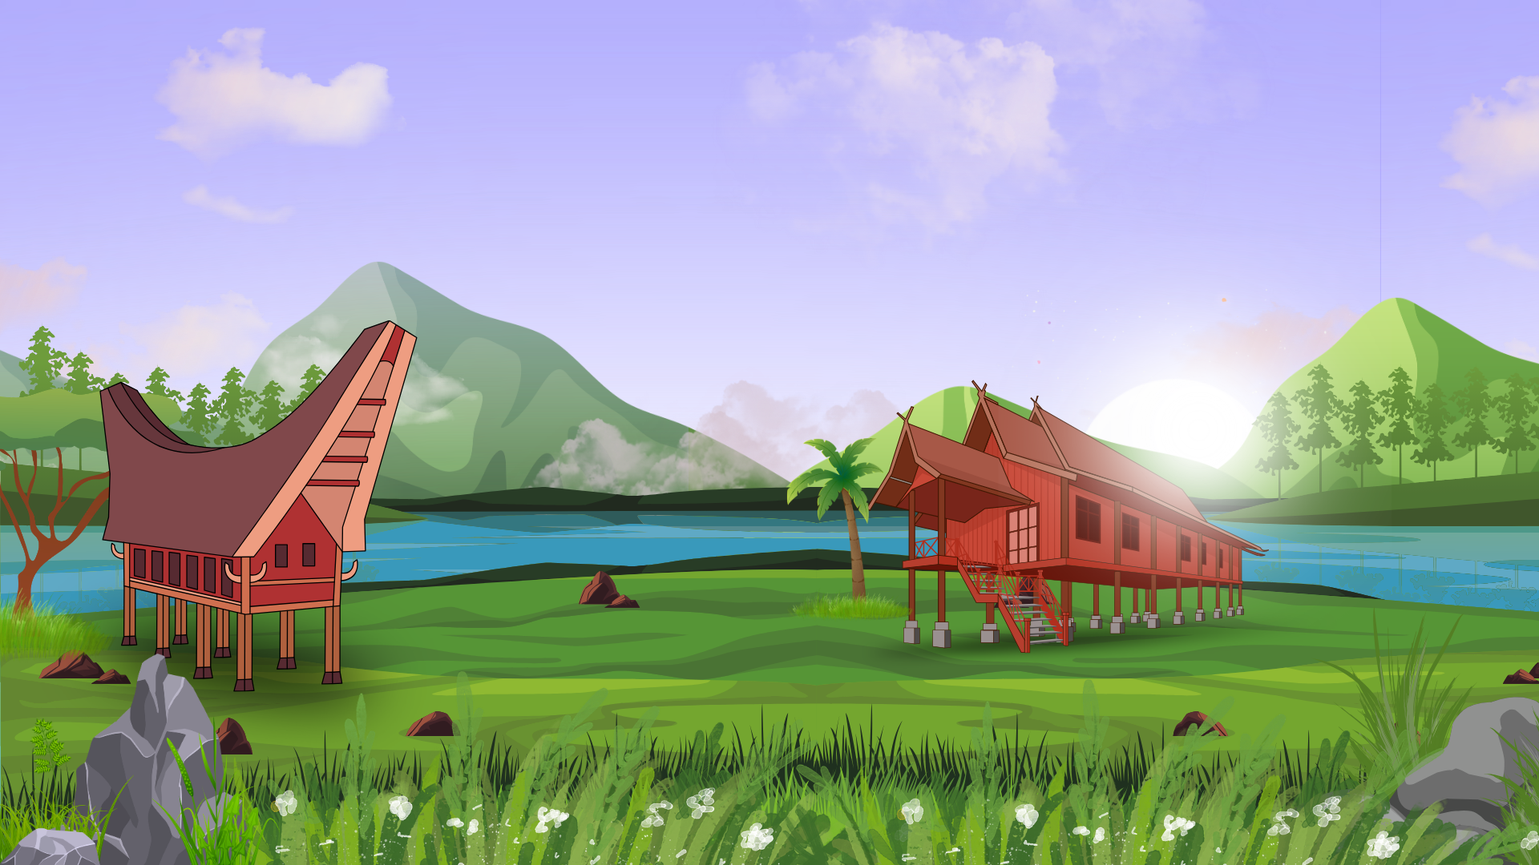
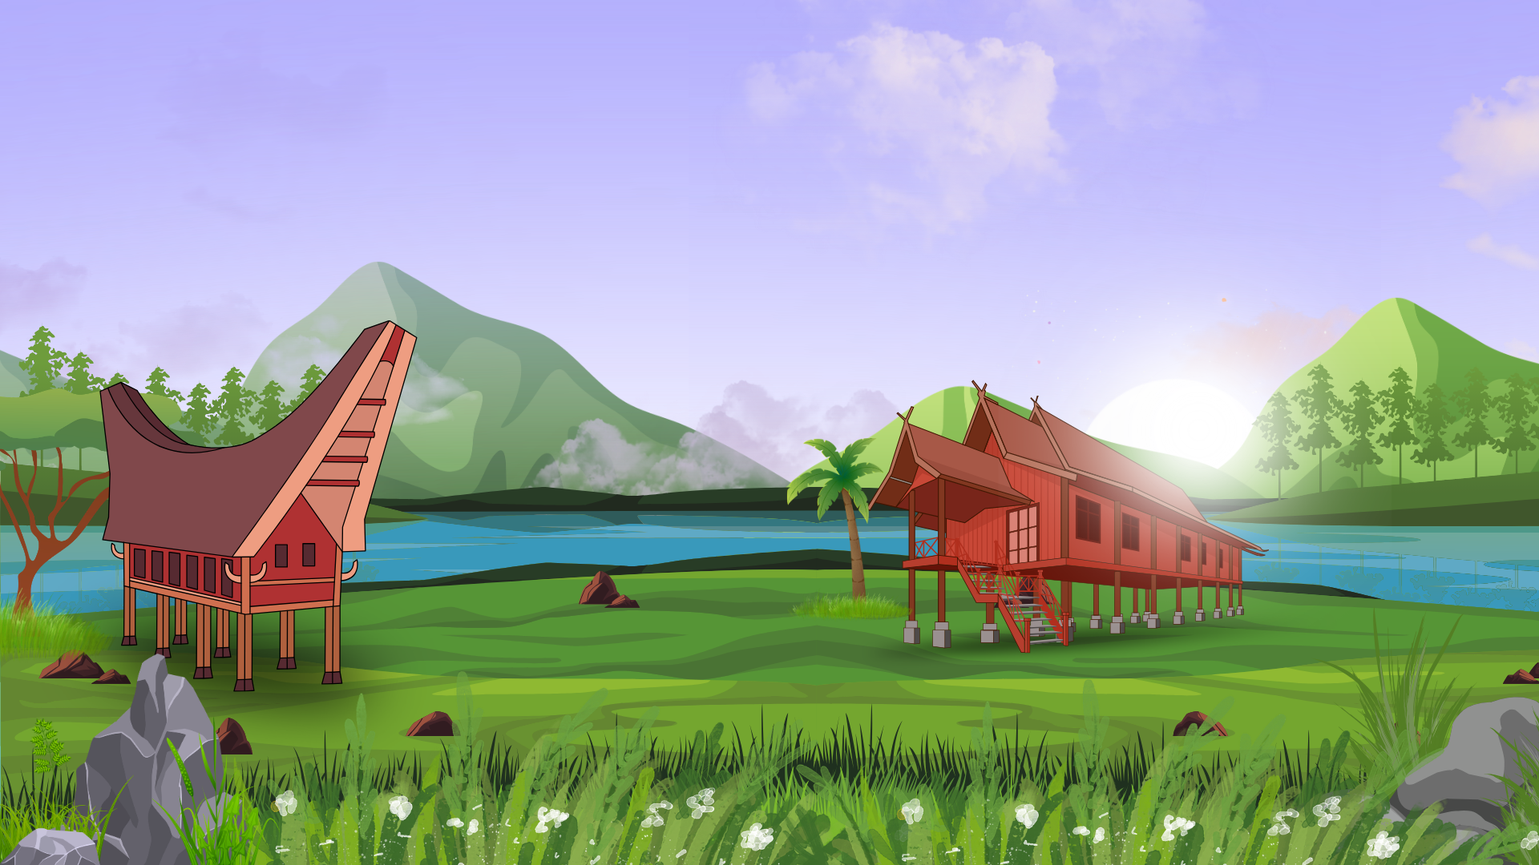
edit navbar, button search, dll

diff --git a/Frontend/baktinusantara-frontend/components/layout/Navbar.tsx b/Frontend/baktinusantara-frontend/components/layout/Navbar.tsx
@@ -64,38 +64,35 @@ export const Navbar: React.FC = () => {
 
   return (
     <header
-      className={`sticky top-0 z-50 w-full border-b transition-all duration-200 ${
+      className={`sticky top-0 z-50 w-full border-b transition-colors duration-200 ${
         isScrolled
           ? 'bg-white/95 dark:bg-navy-950/95 backdrop-blur-md border-slate-200/80 dark:border-navy-800 shadow-sm'
           : 'bg-transparent dark:bg-transparent border-transparent backdrop-blur-none shadow-none'
       }`}
     >
-      <div className="max-w-[1440px] mx-auto px-4 sm:px-8 lg:px-12">
-        <div className="flex items-center justify-between h-20">
-          {/* Logo Brand (Farmvest / IKN Style) */}
+      <div className="max-w-[1500px] mx-auto px-4 sm:px-8 lg:px-12">
+        <div className="flex items-center h-20 gap-3 sm:gap-4 lg:gap-6">
+          {/* Logo Brand (Farmvest / IKN Style) - fixed, never shrinks */}
           <Link href="/" className="flex items-center gap-3.5 shrink-0 group">
-            <div className="w-11 h-11 rounded-2xl bg-primary flex items-center justify-center text-white shadow-sm transition-transform duration-200 group-hover:scale-105">
+            <div className="w-11 h-11 rounded-2xl bg-primary flex items-center justify-center text-white shadow-sm transition-transform duration-200 group-hover:scale-105 shrink-0">
               <Sprout className="w-6 h-6 text-white" />
             </div>
-            <div className="flex flex-col">
-              <span className="font-epilogue font-extrabold text-navy-950 dark:text-white text-xl leading-none tracking-tight">
+            <div className="flex flex-col min-w-0">
+              <span className="font-epilogue font-extrabold text-navy-950 dark:text-white text-xl leading-none tracking-tight whitespace-nowrap">
                 {tCommon('appName')}
               </span>
-              {/* <span className="text-xs text-slate-500 dark:text-slate-400 font-medium font-jakarta mt-1 tracking-wide">
-                {tCommon('appTagline')}
-              </span> */}
             </div>
           </Link>
 
-          {/* Desktop Center Navigation Links - Spacious & Clean */}
-          <nav className="hidden lg:flex items-center gap-8 xl:gap-10">
+          {/* Desktop Center Navigation Links - flex-1 centered, stable width */}
+          <nav className="hidden lg:flex flex-1 items-center justify-center gap-5 xl:gap-7 min-w-0">
             {navLinks.map((link) => {
               const isActive = pathname === link.href || (link.href !== '/' && pathname.startsWith(link.href));
               return (
                 <Link
                   key={link.href}
                   href={link.href}
-                  className={`text-[14px] font-semibold font-jakarta whitespace-nowrap transition-colors duration-150 relative py-2 ${
+                  className={`text-[13px] xl:text-[14px] font-semibold font-jakarta whitespace-nowrap shrink-0 transition-colors duration-150 relative py-2 ${
                     isActive
                       ? 'text-primary dark:text-primary-400'
                       : 'text-slate-600 dark:text-slate-300 hover:text-navy-950 dark:hover:text-white'
@@ -110,10 +107,10 @@ export const Navbar: React.FC = () => {
             })}
           </nav>
 
-          {/* Right Action & Controls (Farmvest Style + Dark Mode + Language Switcher + Notification Bell) */}
-          <div className="hidden sm:flex items-center gap-2.5 lg:gap-3 shrink-0">
-            {/* Language Switcher */}
-            <LanguageSwitcher />
+          {/* Right Action & Controls - shrink-0, fixed layout to prevent shift on language change */}
+          <div className="hidden sm:flex items-center gap-2 lg:gap-2.5 shrink-0 ml-auto lg:ml-0">
+            {/* Language Switcher - fixed min-width to avoid header jump IDN/ENG */}
+            <LanguageSwitcher className="min-w-[78px] justify-center" />
 
             {/* Dark Mode Toggle */}
             <ThemeToggle />
@@ -124,14 +121,14 @@ export const Navbar: React.FC = () => {
             {/* Quick Demo Switcher Dropdown */}
             <RoleSwitcher />
 
-            <div className="h-6 w-px bg-slate-200 dark:bg-navy-800 mx-0.5" />
+            <div className="h-6 w-px bg-slate-200 dark:bg-navy-800 mx-0.5 shrink-0" />
 
             {isAuthenticated ? (
-              <div className="flex items-center gap-2">
-                <Link href={getDashboardLink()}>
-                  <Button size="md" variant="primary" className="gap-2 font-bold px-3.5 py-2 rounded-xl shadow-sm hover:shadow-md text-xs">
-                    <LayoutDashboard className="w-3.5 h-3.5" />
-                    <span>Portal {user?.name ? user.name.split(' ')[0] : 'Dashboard'}</span>
+              <div className="flex items-center gap-2 shrink-0">
+                <Link href={getDashboardLink()} className="shrink-0">
+                  <Button size="md" variant="primary" className="gap-2 font-bold px-3.5 py-2 rounded-xl shadow-sm hover:shadow-md text-xs whitespace-nowrap min-w-[120px] justify-center">
+                    <LayoutDashboard className="w-3.5 h-3.5 shrink-0" />
+                    <span className="truncate max-w-[110px]">Portal {user?.name ? user.name.split(' ')[0] : 'Dashboard'}</span>
                   </Button>
                 </Link>
                 <button
@@ -139,21 +136,21 @@ export const Navbar: React.FC = () => {
                     await logout();
                     toast.success('Sesi berhasil keluar');
                   }}
-                  className="p-2 rounded-xl text-slate-500 hover:text-rose-600 hover:bg-rose-50 dark:hover:bg-rose-950/30 border border-slate-200 dark:border-navy-700 transition-colors"
+                  className="p-2 rounded-xl text-slate-500 hover:text-rose-600 hover:bg-rose-50 dark:hover:bg-rose-950/30 border border-slate-200 dark:border-navy-700 transition-colors shrink-0"
                   title="Keluar Sesi"
                 >
                   <LogOut className="w-4 h-4" />
                 </button>
               </div>
             ) : (
-              <div className="flex items-center gap-2.5">
-                <Link href="/login">
-                  <Button size="sm" variant="ghost" className="text-xs font-bold text-navy-950 dark:text-slate-200 px-3.5 py-2 hover:bg-slate-100 dark:hover:bg-navy-900">
+              <div className="flex items-center gap-2 shrink-0">
+                <Link href="/login" className="shrink-0">
+                  <Button size="sm" variant="ghost" className="text-xs font-bold text-navy-950 dark:text-slate-200 px-3.5 py-2 hover:bg-slate-100 dark:hover:bg-navy-900 whitespace-nowrap min-w-[96px] justify-center">
                     {t('login')}
                   </Button>
                 </Link>
-                <Link href="/register">
-                  <Button size="sm" variant="primary" className="text-xs font-bold px-4 py-2 rounded-xl shadow-sm">
+                <Link href="/register" className="shrink-0">
+                  <Button size="sm" variant="primary" className="text-xs font-bold px-4 py-2 rounded-xl shadow-sm whitespace-nowrap min-w-[108px] justify-center">
                     {t('register')}
                   </Button>
                 </Link>
@@ -161,12 +158,16 @@ export const Navbar: React.FC = () => {
             )}
           </div>
 
-          {/* Mobile Menu Toggle Button & Theme Toggle on mobile */}
-          <div className="flex lg:hidden items-center gap-2">
+          {/* Mobile Menu Toggle Button & controls on mobile/tablet */}
+          <div className="flex lg:hidden items-center gap-2 shrink-0 ml-auto sm:ml-0">
+            {/* Language switcher visible on very small screens where right group is hidden */}
+            <div className="sm:hidden">
+              <LanguageSwitcher />
+            </div>
             <ThemeToggle />
             <button
               onClick={() => setMobileMenuOpen(!mobileMenuOpen)}
-              className="p-2.5 rounded-xl text-navy-900 dark:text-slate-200 hover:bg-slate-100 dark:hover:bg-navy-900 border border-slate-200 dark:border-navy-800 transition-colors"
+              className="p-2.5 rounded-xl text-navy-900 dark:text-slate-200 hover:bg-slate-100 dark:hover:bg-navy-900 border border-slate-200 dark:border-navy-800 transition-colors shrink-0"
               aria-label="Buka menu navigasi"
             >
               {mobileMenuOpen ? <X className="w-6 h-6" /> : <Menu className="w-6 h-6" />}
@@ -178,28 +179,38 @@ export const Navbar: React.FC = () => {
       {/* Mobile Menu Dropdown */}
       {mobileMenuOpen && (
         <div className="lg:hidden border-t border-slate-200 dark:border-navy-800 bg-white dark:bg-navy-950 px-6 pt-4 pb-6 space-y-4 font-jakarta shadow-xl">
-          <div className="flex items-center justify-between pb-3 border-b border-slate-100 dark:border-navy-800">
-            <span className="text-xs font-bold text-slate-500 dark:text-slate-400 uppercase tracking-wider">Peran Demo</span>
-            <RoleSwitcher />
+          <div className="space-y-3 pb-3 border-b border-slate-100 dark:border-navy-800">
+            <div className="flex items-center justify-between">
+              <span className="text-xs font-bold text-slate-500 dark:text-slate-400 uppercase tracking-wider">{t('switchRole')}</span>
+              <RoleSwitcher />
+            </div>
+            {/* Language & Theme row in mobile - hidden on sm because header already shows it */}
+            <div className="flex items-center justify-between">
+              <span className="text-xs font-bold text-slate-500 dark:text-slate-400 uppercase tracking-wider">Bahasa / Language</span>
+              <div className="flex items-center gap-2">
+                <LanguageSwitcher />
+                <ThemeToggle />
+              </div>
+            </div>
           </div>
 
           <div className="space-y-1">
             {navLinks.map((link) => {
               const Icon = link.icon;
-              const isActive = pathname === link.href;
+              const isActive = pathname === link.href || (link.href !== '/' && pathname.startsWith(link.href));
               return (
                 <Link
                   key={link.href}
                   href={link.href}
                   onClick={() => setMobileMenuOpen(false)}
-                  className={`flex items-center gap-3 px-3.5 py-2.5 text-sm font-semibold rounded-xl transition-colors ${
+                  className={`flex items-center gap-3 px-3.5 py-2.5 text-sm font-semibold rounded-xl transition-colors whitespace-nowrap ${
                     isActive
                       ? 'bg-primary/10 dark:bg-primary/20 text-primary dark:text-primary-300 font-bold'
                       : 'text-navy-950 dark:text-slate-200 hover:bg-slate-50 dark:hover:bg-navy-900'
                   }`}
                 >
-                  <Icon className="w-4 h-4 text-slate-400" />
-                  <span>{link.label}</span>
+                  <Icon className="w-4 h-4 text-slate-400 shrink-0" />
+                  <span className="truncate">{link.label}</span>
                 </Link>
               );
             })}
@@ -210,8 +221,8 @@ export const Navbar: React.FC = () => {
               <div className="space-y-2">
                 <Link href={getDashboardLink()} onClick={() => setMobileMenuOpen(false)}>
                   <Button className="w-full justify-center gap-2" variant="primary">
-                    <LayoutDashboard className="w-4 h-4" />
-                    Buka Portal ({user?.name})
+                    <LayoutDashboard className="w-4 h-4 shrink-0" />
+                    <span className="truncate">Portal {user?.name ? user.name.split(' ')[0] : 'Dashboard'}</span>
                   </Button>
                 </Link>
                 <Button
@@ -223,20 +234,20 @@ export const Navbar: React.FC = () => {
                   variant="outline"
                   className="w-full justify-center gap-2 text-rose-600 border-rose-200 dark:border-rose-900 dark:text-rose-400"
                 >
-                  <LogOut className="w-4 h-4" />
-                  Keluar Akun
+                  <LogOut className="w-4 h-4 shrink-0" />
+                  {t('logout')}
                 </Button>
               </div>
             ) : (
               <div className="flex gap-2.5">
-                <Link href="/login" className="flex-1" onClick={() => setMobileMenuOpen(false)}>
-                  <Button variant="outline" className="w-full justify-center text-xs font-bold dark:border-navy-700 dark:text-slate-200">
-                    Masuk
+                <Link href="/login" className="flex-1 min-w-0" onClick={() => setMobileMenuOpen(false)}>
+                  <Button variant="outline" className="w-full justify-center text-xs font-bold dark:border-navy-700 dark:text-slate-200 whitespace-nowrap">
+                    {t('login')}
                   </Button>
                 </Link>
-                <Link href="/register" className="flex-1" onClick={() => setMobileMenuOpen(false)}>
-                  <Button variant="primary" className="w-full justify-center text-xs font-bold">
-                    Daftar KKN
+                <Link href="/register" className="flex-1 min-w-0" onClick={() => setMobileMenuOpen(false)}>
+                  <Button variant="primary" className="w-full justify-center text-xs font-bold whitespace-nowrap">
+                    {t('register')}
                   </Button>
                 </Link>
               </div>

diff --git a/Frontend/baktinusantara-frontend/app/page.tsx b/Frontend/baktinusantara-frontend/app/page.tsx
@@ -89,18 +89,16 @@ export default function HomePage() {
         {/* Subtle Ambient Radial Glow (Clean, Non-Intrusive) */}
         <div className="absolute top-1/2 left-1/2 -translate-x-1/2 -translate-y-1/2 w-[600px] sm:w-[850px] h-[400px] sm:h-[500px] bg-gradient-to-tr from-primary/8 via-emerald-500/6 to-sky-400/8 blur-[120px] pointer-events-none rounded-full" />
 
-        <div className="relative max-w-5xl w-full mx-auto text-center space-y-6 sm:space-y-7 my-auto">
+        <div className="relative w-full max-w-5xl xl:max-w-[1100px] 2xl:max-w-[1200px] mx-auto text-center space-y-6 sm:space-y-7 my-auto px-4 sm:px-0">
           {/* Top Pill Announcement */}
-          <div className="inline-flex items-center gap-2 px-4 py-1.5 rounded-full bg-white dark:bg-navy-900 border border-slate-200 dark:border-navy-700 shadow-xs text-xs font-semibold text-navy-900 dark:text-slate-200 font-jakarta">
-            <span className="flex h-2 w-2 rounded-full bg-emerald-500 animate-pulse" />
-            <span>{tHero('announcement')}</span>
-          </div>
 
           {/* Big Authoritative Headline with Epilogue Font */}
           <h1 className="text-4xl sm:text-5xl lg:text-6xl font-extrabold text-navy-950 dark:text-white font-epilogue tracking-tight leading-[1.12]">
             {tHero('titleLine1')} <br />
-            <span className="text-primary-600 dark:text-primary-400">{tHero('titleAction')}</span> {tHero('titleWith')}{' '}
-            <span className="text-secondary-600 dark:text-secondary-400">{tHero('titleImpact')}</span>
+            {/* <span className="text-primary-600 dark:text-primary-400">{tHero('titleAction')}</span> {tHero('titleWith')}{' '} */}
+            <span className="text-secondary-600 dark:text-secondary-400">{tHero('titleAction')}</span> {tHero('titleWith')}{' '}
+            <span className="text-primary-600 dark:text-primary-400">{tHero('titleImpact')}</span>
+            {/* <span className="text-secondary-600 dark:text-secondary-400">{tHero('titleImpact')}</span> */}
           </h1>
 
           <p className="max-w-2xl mx-auto text-sm sm:text-base text-slate-600 dark:text-slate-300 font-jakarta leading-relaxed">
@@ -184,7 +182,7 @@ export default function HomePage() {
                     <Button
                       size="lg"
                       variant="primary"
-                      className="w-full h-12 rounded-xl text-xs font-bold gap-2 shadow-sm"
+                      className="w-full h-12 rounded-xl text-xs font-bold gap-2 shadow-sm whitespace-nowrap"
                     >
                       <Search className="w-4 h-4" />
                       <span>{tHero('inputs.searchBtn')}</span>
@@ -211,7 +209,7 @@ export default function HomePage() {
         {/* ========================================================================= */}
         {/* 2. REAL INDONESIA PHOTOGRAPHIC SHOWCASE */}
         {/* ========================================================================= */}
-        <section className="relative pt-24 sm:pt-32 pb-20 sm:pb-28 px-4 sm:px-6 lg:px-8 max-w-7xl mx-auto space-y-12">
+        <section className="relative pt-24 sm:pt-32 pb-20 sm:pb-28 px-4 sm:px-6 lg:px-8 xl:px-8 2xl:px-12 w-full max-w-7xl xl:max-w-[1280px] 2xl:max-w-[1440px] mx-auto space-y-8 sm:space-y-10 lg:space-y-12">
         <div className="flex flex-col md:flex-row md:items-end justify-between gap-4">
           <div className="space-y-1 max-w-2xl">
             <span className="text-xs font-bold text-emerald-700 dark:text-emerald-400 uppercase tracking-wider">
@@ -233,8 +231,8 @@ export default function HomePage() {
           </Link>
         </div>
 
-        {/* Real Authentic Photo Grid */}
-        <div className="grid grid-cols-1 md:grid-cols-4 gap-5">
+        {/* Real Authentic Photo Grid - fluid di semua breakpoint tanpa sisa ruang */}
+        <div className="grid grid-cols-1 sm:grid-cols-2 lg:grid-cols-4 gap-4 sm:gap-5 lg:gap-6">
           {[
             {
               title: 'Modernisasi Irigasi Pertanian',
@@ -265,11 +263,14 @@ export default function HomePage() {
               key={idx}
               className="group relative rounded-2xl overflow-hidden border border-slate-200 dark:border-navy-800 shadow-card hover:shadow-card-hover transition-all duration-200 bg-white dark:bg-navy-900 flex flex-col"
             >
-              <div className="h-48 overflow-hidden relative">
+              <div className="relative w-full aspect-[16/10] sm:aspect-[4/3] lg:aspect-[4/3] xl:aspect-[16/11] overflow-hidden">
                 <img
                   src={item.img}
                   alt={item.title}
-                  className="w-full h-full object-cover group-hover:scale-105 transition-transform duration-300"
+                  loading="lazy"
+                  decoding="async"
+                  sizes="(max-width: 640px) 100vw, (max-width: 1024px) 50vw, 25vw"
+                  className="absolute inset-0 w-full h-full object-cover object-center group-hover:scale-105 transition-transform duration-300 max-w-full"
                 />
                 <span className="absolute top-3 left-3 bg-navy-950/80 backdrop-blur-md text-white text-[10px] font-bold px-2.5 py-1 rounded-md">
                   {item.sector}
@@ -320,7 +321,7 @@ export default function HomePage() {
           ].map((m, i) => {
             const Icon = m.icon;
             return (
-              <div key={i} className="p-5 rounded-2xl bg-slate-50 dark:bg-navy-900 border border-slate-200/80 dark:border-navy-800 space-y-2">
+              <div key={i} className="p-5 rounded-2xl bg-white dark:bg-navy-900 border border-slate-200/80 dark:border-navy-800 space-y-2">
                 <div className="flex items-center justify-between">
                   <span className="text-2xl sm:text-3xl font-extrabold text-navy-950 dark:text-white font-epilogue">
                     {m.num}
@@ -337,8 +338,8 @@ export default function HomePage() {
       {/* ========================================================================= */}
       {/* 3. JELAJAHI SEBARAN WILAYAH NUSANTARA (Gaya Trippin': Circular Badges) */}
       {/* ========================================================================= */}
-      <section className="relative py-14 bg-transparent dark:bg-transparent  border-slate-200/50 dark:border-navy-800/50 px-4 sm:px-6 lg:px-8 transition-colors duration-200">
-        <div className="max-w-7xl mx-auto space-y-8 text-center">
+      <section className="relative py-10 sm:py-12 lg:py-14 bg-transparent dark:bg-transparent border-slate-200/50 dark:border-navy-800/50 px-4 sm:px-6 lg:px-8 xl:px-8 2xl:px-12 transition-colors duration-200">
+        <div className="w-full max-w-7xl xl:max-w-[1280px] 2xl:max-w-[1440px] mx-auto space-y-6 sm:space-y-8 text-center">
           <div className="space-y-1 max-w-xl mx-auto">
             <span className="text-xs font-bold text-primary-700 dark:text-primary-400 uppercase tracking-wider">
               Sebaran Geografis KKN
@@ -348,15 +349,15 @@ export default function HomePage() {
             </h2>
           </div>
 
-          <div className="grid grid-cols-2 sm:grid-cols-3 lg:grid-cols-6 gap-4">
+          <div className="grid grid-cols-2 sm:grid-cols-3 lg:grid-cols-6 gap-3 sm:gap-4 lg:gap-5 xl:gap-6">
             {exploreRegions.map((reg, idx) => (
               <Link
                 key={idx}
                 href={`/search?q=${encodeURIComponent(reg.name)}`}
                 className="group flex flex-col items-center space-y-2.5 p-3 rounded-2xl hover:bg-white dark:hover:bg-navy-900 transition-all duration-150 border border-transparent hover:border-slate-200 dark:hover:border-navy-800 hover:shadow-card"
               >
-                <div className="w-20 h-20 sm:w-24 sm:h-24 rounded-full overflow-hidden border-2 border-white dark:border-navy-700 shadow-card group-hover:scale-105 transition-transform duration-200">
-                  <img src={reg.img} alt={reg.name} className="w-full h-full object-cover" />
+                <div className="w-16 h-16 xs:w-20 xs:h-20 sm:w-24 sm:h-24 lg:w-28 lg:h-28 xl:w-32 xl:h-32 rounded-full overflow-hidden border-2 border-white dark:border-navy-700 shadow-card group-hover:scale-105 transition-transform duration-200 shrink-0 aspect-square">
+                  <img src={reg.img} alt={reg.name} loading="lazy" decoding="async" sizes="(max-width: 640px) 50vw, (max-width: 1024px) 33vw, 16vw" className="w-full h-full object-cover object-center max-w-full" />
                 </div>
                 <div>
                   <p className="text-xs font-bold text-navy-950 dark:text-slate-200 group-hover:text-primary-600 dark:group-hover:text-primary-400 transition-colors">
@@ -439,7 +440,7 @@ export default function HomePage() {
         {/* ========================================================================= */}
         {/* 5. POS KEBUTUHAN PILIHAN SIAP DILAMAR */}
         {/* ========================================================================= */}
-        <section className="relative py-16 sm:py-20 px-4 sm:px-6 lg:px-8 max-w-7xl mx-auto space-y-8">
+        <section className="relative py-12 sm:py-16 lg:py-20 px-4 sm:px-6 lg:px-8 xl:px-8 2xl:px-12 w-full max-w-7xl xl:max-w-[1280px] 2xl:max-w-[1440px] mx-auto space-y-6 sm:space-y-8">
         <div className="flex flex-col md:flex-row md:items-end justify-between gap-4">
           <div className="space-y-1">
             <span className="text-xs font-bold text-primary-700 dark:text-primary-400 uppercase tracking-wider">
@@ -461,12 +462,12 @@ export default function HomePage() {
           </Link>
         </div>
 
-        <div className="grid grid-cols-1 md:grid-cols-3 gap-6">
+        <div className="grid grid-cols-1 sm:grid-cols-2 lg:grid-cols-3 gap-4 sm:gap-5 lg:gap-6">
           {(posKebutuhanList.slice(0, 3)).map((pos) => (
             <Card key={pos.id} hoverEffect className="overflow-hidden flex flex-col justify-between border-slate-200 dark:border-navy-800">
               <div className="space-y-3">
-                {/* Photo Thumbnail */}
-                <div className="h-40 overflow-hidden relative">
+                {/* Photo Thumbnail - fluid aspect, tidak menyisakan ruang */}
+                <div className="relative w-full aspect-[16/9] sm:aspect-[16/10] lg:aspect-[16/9] xl:aspect-[4/3] overflow-hidden">
                   <img
                     src={
                       pos.id === 1
@@ -476,7 +477,10 @@ export default function HomePage() {
                         : 'https://images.unsplash.com/photo-1576091160550-2173dba999ef?w=600&auto=format&fit=crop&q=80'
                     }
                     alt={pos.judul}
-                    className="w-full h-full object-cover"
+                    loading="lazy"
+                    decoding="async"
+                    sizes="(max-width: 640px) 100vw, (max-width: 1024px) 50vw, 33vw"
+                    className="absolute inset-0 w-full h-full object-cover object-center max-w-full"
                   />
                   <div className="absolute top-3 left-3">
                     <StatusBadge status={pos.status} size="sm" />

diff --git a/Frontend/baktinusantara-frontend/components/ui/LanguageSwitcher.tsx b/Frontend/baktinusantara-frontend/components/ui/LanguageSwitcher.tsx
@@ -69,7 +69,7 @@ export function LanguageSwitcher({ className = '' }: { className?: string }) {
         type="button"
         onClick={() => setIsOpen(!isOpen)}
         aria-label="Pilih Bahasa / Select Language"
-        className="inline-flex items-center gap-1.5 px-2.5 h-9 rounded-xl text-xs font-semibold bg-slate-100 hover:bg-slate-200/80 dark:bg-navy-900 dark:hover:bg-navy-800 text-navy-950 dark:text-slate-100 border border-slate-200/80 dark:border-navy-700 transition-all duration-150 focus:outline-none focus:ring-2 focus:ring-primary/20"
+        className="inline-flex items-center justify-center gap-1.5 px-2.5 h-9 min-w-[76px] rounded-xl text-xs font-semibold bg-slate-100 hover:bg-slate-200/80 dark:bg-navy-900 dark:hover:bg-navy-800 text-navy-950 dark:text-slate-100 border border-slate-200/80 dark:border-navy-700 transition-colors duration-150 focus:outline-none focus:ring-2 focus:ring-primary/20 shrink-0"
         title={locale === 'id' ? 'Bahasa Indonesia' : 'English'}
       >
         <span className="flex items-center shrink-0">
